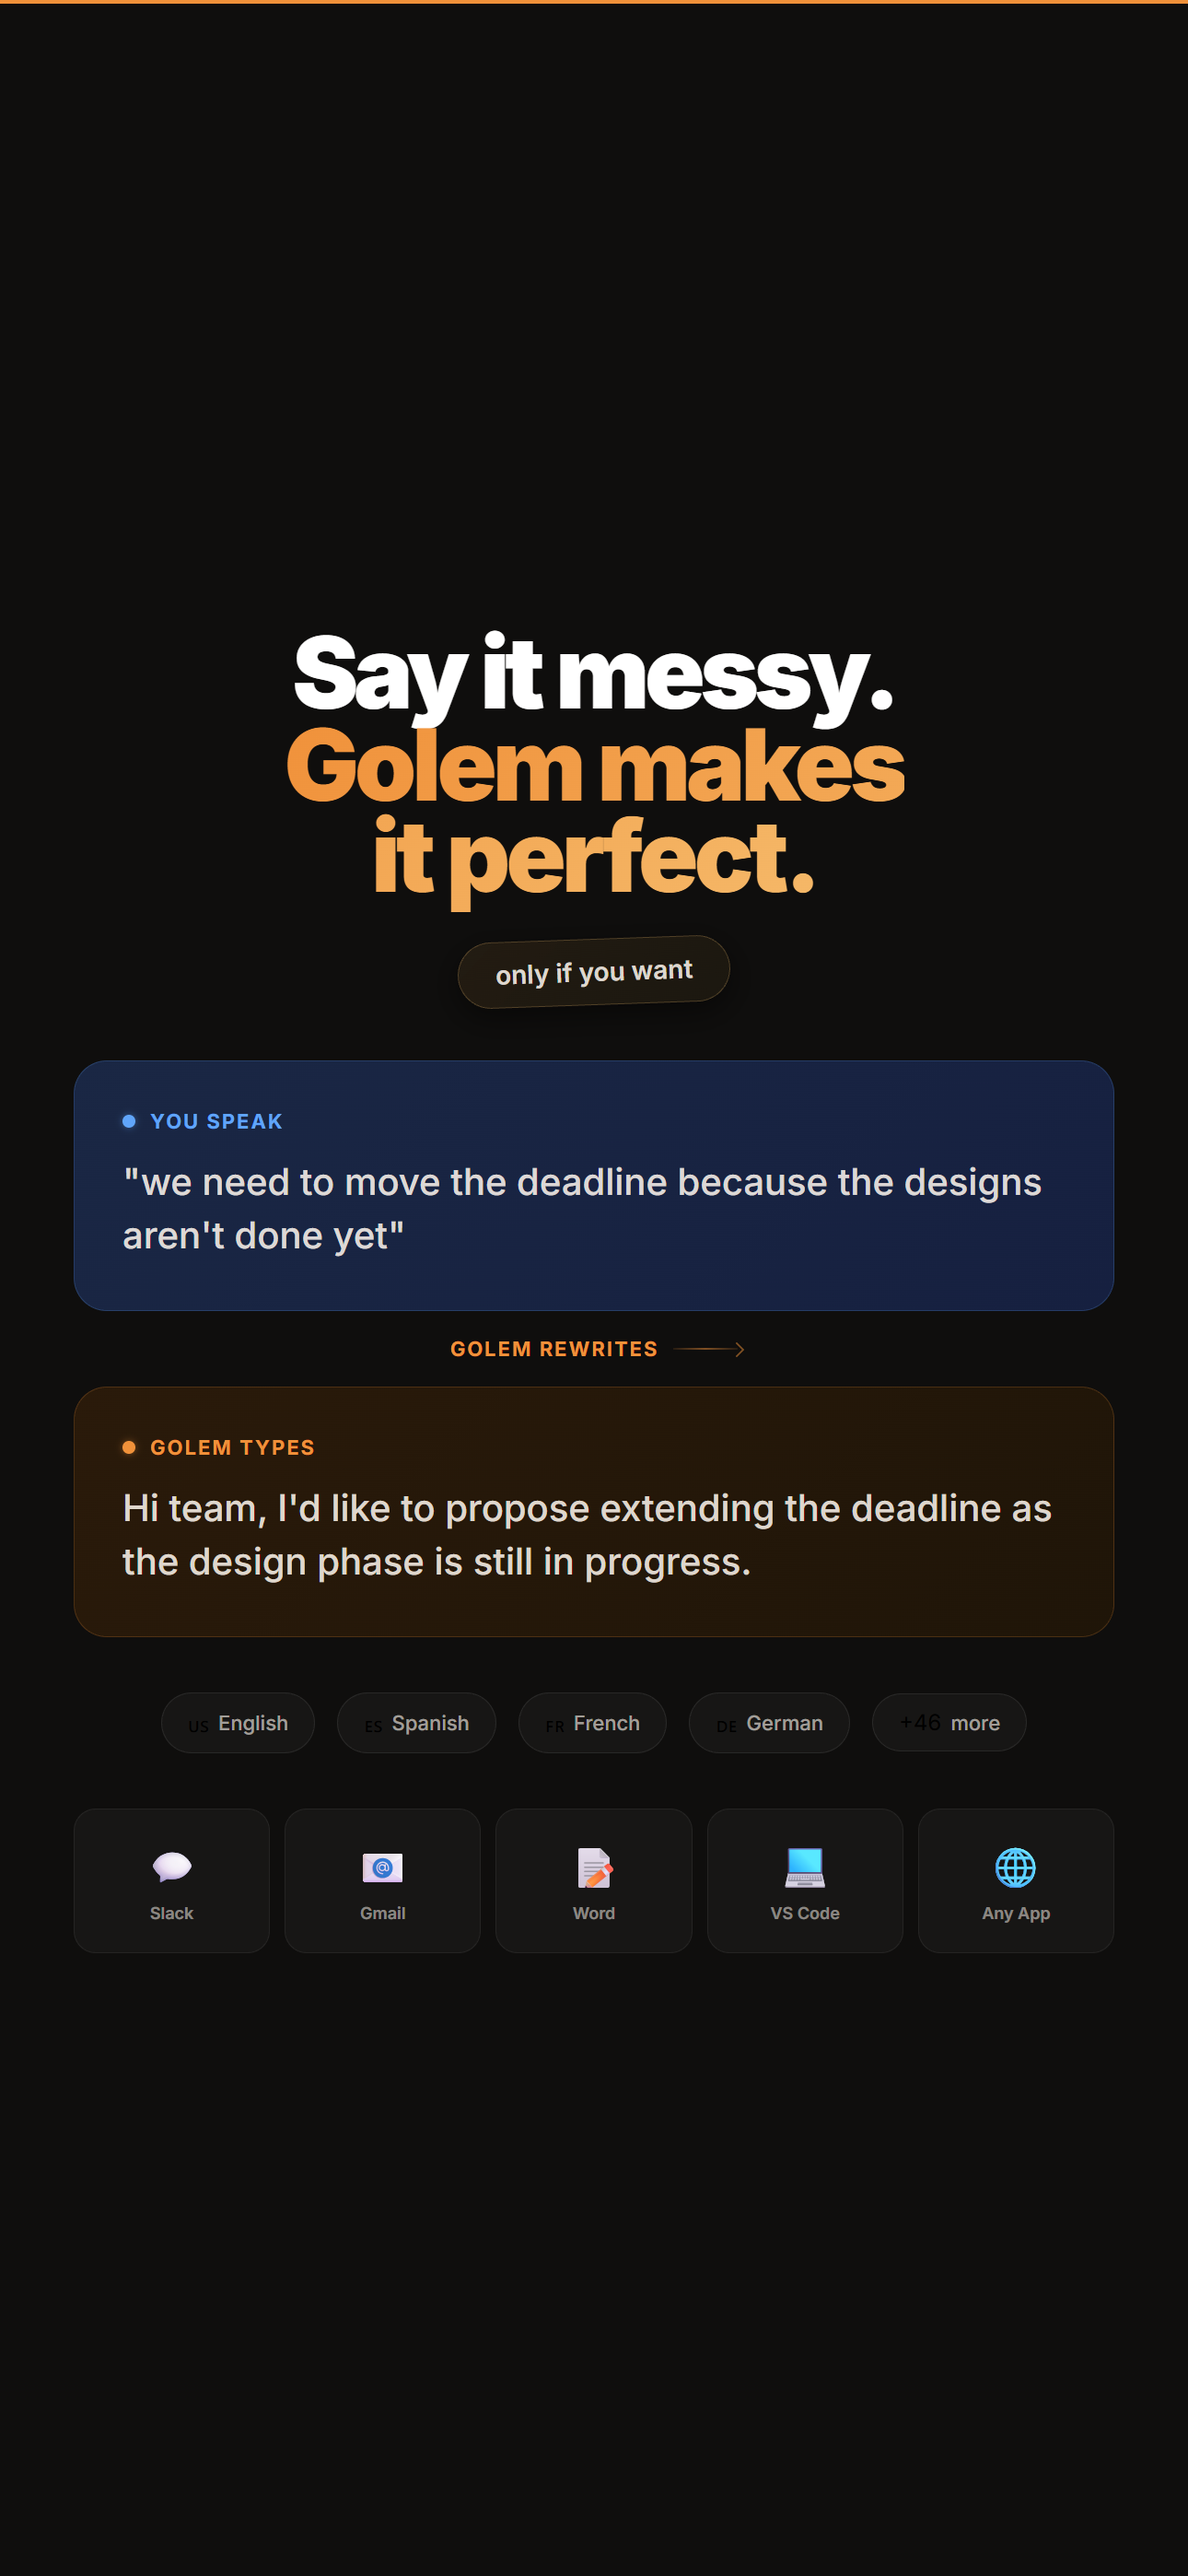
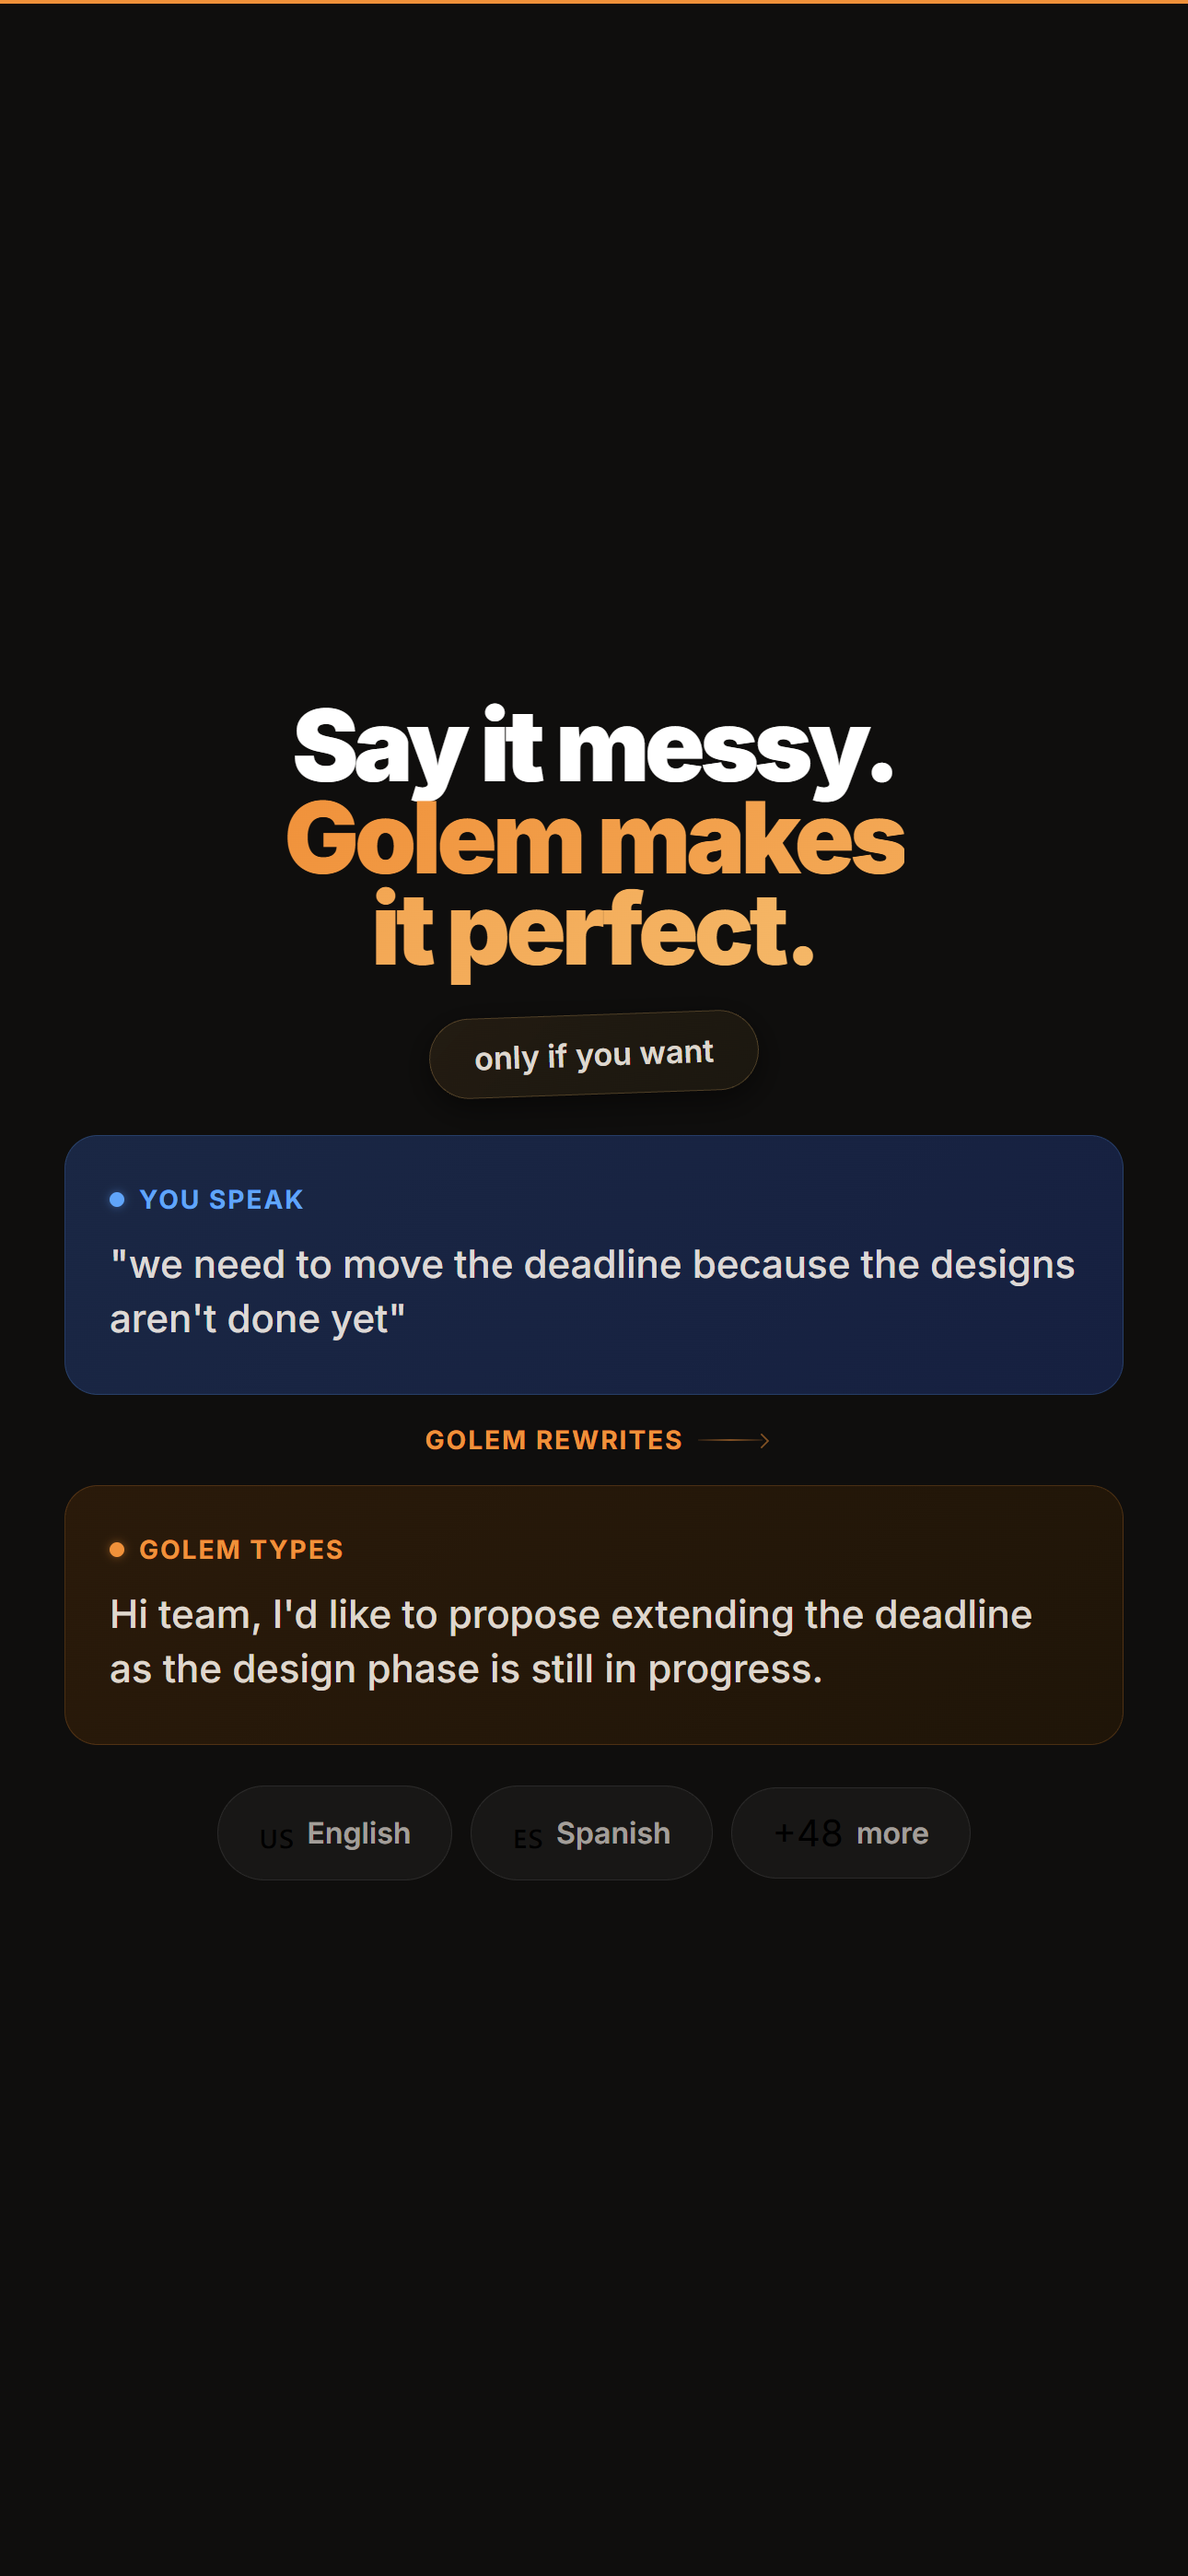
Add hard limits for portrait format + fix iOS examples
SKILL.md: Added strict portrait rules from ASO research:
- Min headline 90px, min body 36px, min label 28px
- Max 3 items per row (never 5)
- Max 5 elements per slide
- Max 6 grid items (3x2)
- Min icon 80px, min capsule text 28px

iOS examples: removed tiny app grid (5 items), enlarged all
labels/capsules/pills, 3 language pills instead of 5

diff --git a/SKILL.md b/SKILL.md
@@ -234,23 +234,61 @@ Some apps use connected backgrounds where slide 1 flows into slide 2. Create thi
 - Aligning elements at edges so they "continue"
 - Maintaining consistent color temperature
 
-## Portrait (iOS) Specific Rules
+## Portrait (iOS 1290x2796) Specific Rules
 
-**CRITICAL for iOS portrait (1290x2796):**
-- This is a TALL format. Fill the space vertically.
-- Headline at top: 80-120px, centered
-- Phone mockup below: should take 50-65% of the slide height
-- Phone mockup width: 80-90% of slide width for impact
-- NO huge empty gaps between headline and mockup
-- Subtitle between headline and mockup if needed (32-40px)
-- Feature badges/pills below headline, above mockup
-- Mockup should reach near the bottom edge (with margin)
+### Hard Limits — NEVER violate these
 
-**Phone mockup sizing for iOS slides:**
-- Width: ~1000-1100px out of 1290px total (77-85%)
-- This makes the app UI clearly readable
-- Rounded corners: 44px outer frame, 36px inner screen
-- Subtle shadow: 0 24px 70px rgba(0,0,0,0.4)
+| Rule | Limit |
+|------|-------|
+| **Min headline size** | 90px (7% of width). Headlines MUST dominate. |
+| **Min body text** | 36px. Nothing smaller. If it can't be 36px, delete it. |
+| **Min label/badge text** | 28px. Smaller = invisible on phone screens. |
+| **Max text lines per slide** | 4 lines of body text. After that, it's a wall of text. |
+| **Max elements per slide** | 5 primary elements. More = visual clutter. |
+| **Max items in a row** | 3 items. NEVER 5 in a row — they become unreadable dots. |
+| **Max icon grid** | 3 columns, 2 rows (6 items total). More = too small. |
+| **Min icon size** | 80px. Smaller icons are invisible on store preview. |
+| **Safe margins** | 60px left/right, 80px top, 100px bottom |
+| **Max dead space** | 10% of slide. Fill the canvas. |
+| **Min capsule/pill text** | 28px. The "only if you want" style capsules must be large. |
+
+### Layout Patterns for Portrait
+
+**Pattern A: Hero (slide 1)**
+- Logo/mascot: 160-200px, centered, top area
+- Headline: 100-130px, centered, takes ~20% of height
+- Subtitle: 40-48px, 1-2 lines max
+- Feature card or glass panel: fills bottom 40-50%
+- CTA button at very bottom if applicable
+
+**Pattern B: Feature Demo (slides 2-3)**
+- Headline: 90-110px, centered top
+- Subtitle: 36-40px, 1 line
+- Key UI element (overlay pill, button) displayed LARGE at native size
+- Steps/cards: vertically stacked, each card takes full width, 36px+ text inside
+- Privacy/trust section at bottom if space allows
+
+**Pattern C: Before/After (slide 3-4)**
+- Headline: 90-110px
+- Two full-width color-blocked cards stacked vertically
+- Input card: blue-tinted, 40px+ text
+- Output card: accent-tinted, 40px+ text
+- Arrow/label between: 28px+ text, visible
+- Language pills: 3 max in a row, 28px text each
+
+**Pattern D: Compatibility (last slide)**
+- Headline: 90-110px
+- Grid: 3 columns x 2 rows MAX
+- Each grid item: 80px+ icon, 24px+ label
+- Full-width, generous padding
+
+### What NOT to do in Portrait
+
+- **NEVER put 5 small items in a row** — they become unreadable thumbnails
+- **NEVER use text below 28px** — store previews shrink screenshots to ~350px wide
+- **NEVER leave bottom 30%+ empty** — fill with content, make elements bigger, or add a section
+- **NEVER use desktop screenshots in portrait** — if app is desktop, show features as designed HTML cards/demos instead
+- **NEVER mix too many sections** — max 3 distinct sections per slide (header + main content + footer)
 
 ## Landscape (macOS/Windows) Specific Rules
 
